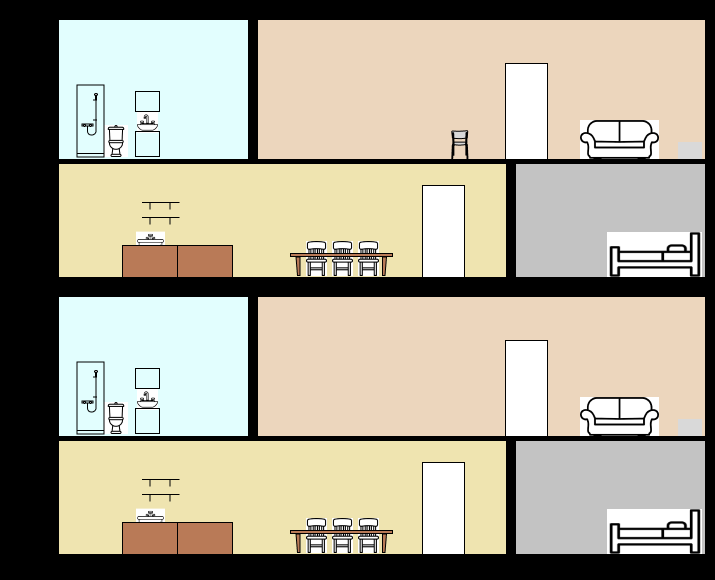
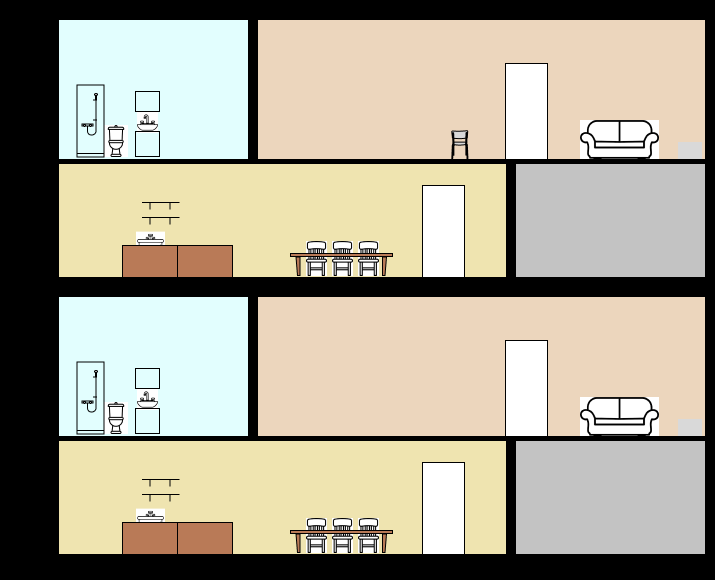
work on car activity

Changed region(s): [[0.8308, 0.3724, 0.9846, 0.4966], [0.8308, 0.869, 0.9846, 0.9621]]

diff --git a/demo/src/scenes/SimulationScene.js b/demo/src/scenes/SimulationScene.js
@@ -34,7 +34,7 @@ export default class SimulationScene extends Phaser.Scene {
         // TIME UNIT CONVERSION FACTOR
         // How many in-game time units correspond to 1 hour "real time"?
         this.tucf = this.dayLength / 24;
-        this.dayStartingHour = 3; // at which hour does the scene start/stop at?
+        this.dayStartingHour = 1; // at which hour does the scene start/stop at?
 
         // Starting time for scene
         this.registry.values.time = this.dayStartingHour*this.tucf;
@@ -228,10 +228,10 @@ export default class SimulationScene extends Phaser.Scene {
         var baseOffset = {"x": 243, "y": 168 };
 
         var offsets = {
-            "1": { "x": baseOffset['x'] + 0, "y": baseOffset['y'] + 0 },
-            "2": { "x": baseOffset['x'] + 147, "y": baseOffset['y'] + -1 },
+            "1": { "x": baseOffset['x'] + 0, "y": baseOffset['y'] },
+            "2": { "x": baseOffset['x'] + 147, "y": baseOffset['y'] },
             "3": { "x": baseOffset['x'] + 0, "y": baseOffset['y'] + 277 },
-            "4": { "x": baseOffset['x'] + 147, "y": baseOffset['y'] + 277-1 }
+            "4": { "x": baseOffset['x'] + 147, "y": baseOffset['y'] + 277 }
         }
         
         return [baseOffset, offsets];
@@ -248,6 +248,7 @@ export default class SimulationScene extends Phaser.Scene {
         
         for (var [key, person] of this.people) {
             if(person.schedule.has(this.registry.values.time.toString())) {
+                console.log(person.schedule);
                 //console.log("person ", person.key, "doing activity:", person.schedule.get(this.registry.values.time.toString()));
                 person.doActivity(person.schedule.get(this.registry.values.time.toString()));
             }
@@ -533,7 +534,23 @@ createDevices() {
     // Create Devices
     const devices = new Map();
 
-    const deviceInfo = {
+    const basePositionsSmall = {
+        "stove": { "x": 502, "y": 480 },
+        "fridge": { "x": 596, "y": 465 },
+        "washingMachine": { "x": 523, "y": 371 },
+        "bed": { "x": 250, "y": 478 },
+        "carCharger": { "x": -7, "y": 770 }
+    }
+
+    const basePositionsBig = {
+        "stove": { "x": 885, "y": 480 },
+        "fridge": { "x": 736, "y": 465 },
+        "washingMachine": { "x": 853, "y": 371 },
+        "bed": { "x": 1280, "y": 478 },
+        "carCharger": { "x": -120, "y": 770 }
+    }
+
+    const apartmentDeviceInfo = {
         "stove": {
             texture: 'stove',
             powerConsumption: 1.0/this.tucf,
@@ -562,25 +579,39 @@ createDevices() {
                 active: 'washingMachineActive'
             },
             repeatAnimation: true
-        }
-    }
-
-    const basePositionsSmall = {
-        "stove": { "x": 502, "y": 480 },
-        "fridge": { "x": 596, "y": 464 },
-        "washingMachine": { "x": 523, "y": 371 }
-    }
-
-    const basePositionsBig = {
-        "stove": { "x": 885, "y": 480 },
-        "fridge": { "x": 736, "y": 465 },
-        "washingMachine": { "x": 853, "y": 371 }
+        },
+        "bed": {
+            texture: 'bed',
+            powerConsumption: 0, 
+            isIdleConsuming: false,
+            animationKeys: {
+                active: 'bedActive'
+            },
+            repeatAnimation: false
+        },
+        "carCharger": {
+            texture: 'washingMachine',
+            powerConsumption: 11.0/this.tucf, 
+            isIdleConsuming: false,
+            animationKeys: {
+                active: 'washingMachineActive'
+            },
+            repeatAnimation: true,
+            disable: [3,4] // The following apartments will not have access to the device
+        },
     }
 
     for (var apartment = 1; apartment <= 4; apartment++) {
         const deviceSuffix = "d" + apartment;
         const basePositions = apartment % 2 == 0 ? basePositionsBig : basePositionsSmall;  
-        for (const [deviceName, DeviceValues] of Object.entries(deviceInfo)) {
+        for (const [deviceName, DeviceValues] of Object.entries(apartmentDeviceInfo)) {
+            if(DeviceValues['disable'] != null && DeviceValues['disable'].includes(apartment)) { //&& DeviceValues['disable'].contains(apartment)
+                //const disableValues = DeviceValues['disable'];
+                //console.log(disableValues);
+                console.log("Disable activity", deviceName, "for apartment", apartment);
+                // console.log(DeviceValues['disable'].has(apartment));
+                break; // skip this apartment
+            }
             const deviceKey = deviceSuffix + deviceName;
             const postitions = {
                 x: basePositions[deviceName]['x'] + this.offsets[apartment]['x'],
@@ -689,7 +720,8 @@ createDevices() {
                 minDuration: 3000,
                 startDuration: 0,
                 exitDuration: 0,
-                deviceType: null 
+                deviceType: "carCharger",
+                disable: [3,4] // The following apartments will not have access to the activity 
             }
         }
 
@@ -728,15 +760,18 @@ createDevices() {
             const baseLocationSuffix = apartment % 2 == 0 ? baseLocationSuffixBig : baseLocationSuffixSmall;  
             for (const [activityName, activityValues] of Object.entries(activityInfo)) {
                 if(activityName in baseLocationSuffix) {
-                    const activityKey = activitySuffix + activityName;
-                    const device = activityValues.deviceType ? this.devices.get("d" + apartment + activityValues.deviceType) : null; 
-                    const locationKey = "l" + apartment + baseLocationSuffix[activityName];
-                    activities.set(activityKey, new Activity({key: activityKey, 
-                                                              scene: this, 
-                                                              apartment: apartment, 
-                                                              device: device, 
-                                                              locationKey: locationKey, 
-                                                              ...activityValues}));    
+                    if(activityInfo['disable'] != null && activityInfo['disable'].includes(apartment)) break;
+                    else { //&& DeviceValues['disable'].contains(apartment)
+                        const activityKey = activitySuffix + activityName;
+                        const device = activityValues.deviceType ? this.devices.get("d" + apartment + activityValues.deviceType) : null; 
+                        const locationKey = "l" + apartment + baseLocationSuffix[activityName];
+                        activities.set(activityKey, new Activity({key: activityKey, 
+                                                                scene: this, 
+                                                                apartment: apartment, 
+                                                                device: device, 
+                                                                locationKey: locationKey, 
+                                                                ...activityValues}));    
+                    }
                 }
             }
         }

diff --git a/demo/src/objects/TotalEnergyHandler.js b/demo/src/objects/TotalEnergyHandler.js
@@ -56,7 +56,7 @@ export class TotalEnergyHandler {
     this.currentTotalSelling = 0;
     this.currentConsumptionPerHouse = [0,0];
     this.currentSolarProductionPerHouse = [0,0];
-    this.currentConsumptionFractions = [0,0,0,0];
+    this.currentConsumptionFractions = [0,0,0,0,0];
 
     this.totalCost = 0;
     this.totalSelling = 0;
@@ -121,11 +121,11 @@ export class TotalEnergyHandler {
         //console.log(powerline); 
         //console.log(this.currentConsumptionFractions); 
         if (powerline.apartment > 0) {
-          totalUsageFactor = this.currentConsumptionFractions[powerline.apartment-1];
+          totalUsageFactor = this.currentConsumptionFractions[powerline.apartment];
         } else if (powerline.house > 0) {
-          totalUsageFactor = this.currentConsumptionFractions[powerline.house-1] + this.currentConsumptionFractions[powerline.house+1]; 
+          totalUsageFactor = this.currentConsumptionFractions[powerline.house] + this.currentConsumptionFractions[powerline.house+2]; 
         } else { // Car charger
-          totalUsageFactor = 0;
+          totalUsageFactor = this.currentConsumptionFractions[0];
         }
         //console.log("total usage factor:", totalUsageFactor);
         if (powerline.type === "mixedSolar") powerline.setAlpha(effectToAlpha(usedSolarEffect * totalUsageFactor));
@@ -134,56 +134,12 @@ export class TotalEnergyHandler {
     });
   }
 
-  // updatePowerlinesAlpha() {
-  //   console.log(this.currentTotalConsumption);
-   
-  //   const estimatedMaxConsumption = 2;
-
-  //   const energyDiff = this.currentTotalConsumption - this.currentTotalSolarProduction;
-  //   const fractionSolar = Math.min(1,this.currentTotalSolarProduction / this.currentTotalConsumption);
-  //   const fractionBought = Math.max(0,energyDiff / this.currentTotalConsumption);
-  //   const fractionSold = Math.max(0,-1*energyDiff / this.currentTotalSolarProduction);
-
-  //   var solarAlpha = this.currentTotalSolarProduction /this.totalSolarPanelEffect;
-  //   //var boughtAlpha = this.currentTotalConsumption*fractionBought / estimatedMaxConsumption;
-  //   var boughtAlpha = 1;
-  //   var soldAlpha = solarAlpha * fractionSold;
-
-
-  //   console.log("energyDiff");
-  //   console.log("fractions:",fractionSolar, fractionBought, fractionSold);
-  //   console.log("alphas:",solarAlpha, boughtAlpha, soldAlpha, mixedSolarAlpha, mixedBoughtAlpha);
-
-
-  //   this.powerlines.forEach(powerline => {
-  //     //console.log(powerline.type);
-
-  //     if (powerline.type === "solar") powerline.setAlpha(solarAlpha);
-  //     else if (powerline.type === "bought") powerline.setAlpha(boughtAlpha);
-  //     else if (powerline.type === "solarSell") powerline.setAlpha(soldAlpha);
-  //     else { // Mixed
-  //       //console.log("hellooo?");
-  //       var totalUsageFactor = 0;
-  //       console.log(powerline); 
-  //       console.log(this.currentConsumptionFractions); 
-  //       if (powerline.apartment > 0) {
-  //         totalUsageFactor = this.currentConsumptionFractions[powerline.apartment-1];
-  //       } else if (powerline.house > 0) {
-  //         totalUsageFactor = this.currentConsumptionFractions[powerline.house-1] + this.currentConsumptionFractions[powerline.house+1]; 
-  //       } else { // Car charger
-  //         totalUsageFactor = 0;
-  //       }
-  //       console.log("total usage factor:", totalUsageFactor);
-  //       if (powerline.type === "mixedSolar") powerline.setAlpha(solarAlpha * totalUsageFactor);
-  //       else if (powerline.type === "mixedBought") powerline.setAlpha(boughtAlpha * totalUsageFactor);
-  //     }
-  //   });
-  // }
 
   updateCurrentConsumption() {
 
     this.currentConsumptionPerHouse = [0,0];
     this.currentTotalConsumption = 0;
+    this.currentConsumptionFractions = [0,0,0,0,0];
 
     // Calculate total consumption in each and all buildings
     for(var [key, ieh] of this.individualEnergyHandlers) {
@@ -194,10 +150,12 @@ export class TotalEnergyHandler {
 
     // Calculate the fraction in which each house is responsible 
     for(var [key, ieh] of this.individualEnergyHandlers) {
-      this.currentConsumptionFractions[ieh.apartment - 1] = ieh.currentConsumption / this.currentTotalConsumption;
+      this.currentConsumptionFractions[ieh.apartment] = ieh.currentApartmentConsumption / this.currentTotalConsumption;
+      this.currentConsumptionFractions[0] += ieh.currentOutsideConsumption / this.currentTotalConsumption;
+
       //console.log("fraction of consumption by apartment", ieh.apartment, ": ", this.currentConsumptionFractions[ieh.apartment - 1]);
     }
-    
+    console.log(this.currentConsumptionFractions);
     //console.log("total current consumption: ", this.currentTotalConsumption);
     this.scene.events.emit('currentConsumptionChanged', this.currentTotalConsumption);
    }

diff --git a/demo/src/objects/Device.js b/demo/src/objects/Device.js
@@ -3,6 +3,7 @@ export class Device extends Phaser.GameObjects.Sprite  {
     body;
 
     key; 
+    type;
     currentScene;
     isActive;
     isIdleConsuming; // if true, uses power regardless of if its "interacted with" or not
@@ -20,12 +21,24 @@ export class Device extends Phaser.GameObjects.Sprite  {
       this.key = params.key;
       this.currentScene = params.scene;
       this.isActive = false;
+      this.type = params.texture;
       this.apartment = params.apartment;
       this.isIdleConsuming = params.isIdleConsuming;
       this.animationKeys = params.animationKeys;
       this.powerConsumption = params.powerConsumption;
       this.repeatAnimation = params.repeatAnimation;
       this.currentScene.add.existing(this);
+      this.deviceSpecificHandling();
+    }
+
+    deviceSpecificHandling() {
+      switch (this.type) {
+        case 'bed':
+          if(this.apartment % 2 == 0) {
+            this.flipX = true;
+          }
+          break;
+      }
     }
 
     handleAnimations() {
@@ -56,6 +69,7 @@ export class Device extends Phaser.GameObjects.Sprite  {
     }
 
     getCurrentConsumption() {
+      console.log("getting consumption from",this.key,":",(this.isActive||this.isIdleConsuming) ? this.powerConsumption : 0);
       return (this.isActive||this.isIdleConsuming) ? this.powerConsumption : 0;
       // Check how long the device has been active, maybe something with system time
     }

diff --git a/demo/src/objects/IndividualEnergyHandler.js b/demo/src/objects/IndividualEnergyHandler.js
@@ -17,8 +17,8 @@ export class IndividualEnergyHandler {
     
     // current values
     currentConsumption;
-    currentSolarPanelGeneration;
-  
+    currentApartmentConsumption;
+    currentOutsideConsumption;  
     // aggregated values
     individualCost;
     individualSelling;
@@ -48,8 +48,15 @@ export class IndividualEnergyHandler {
   
      updateCurrentConsumption() {
       this.currentConsumption = 0;
+      this.currentApartmentConsumption = 0;
+      this.currentOutsideConsumption = 0;  
       for(var [key, device] of this.devices) {
         this.currentConsumption += device.getCurrentConsumption();
+        if (["car"].includes(device.type)) {
+          this.currentOutsideConsumption += device.getCurrentConsumption();  
+        } else {
+          this.currentApartmentConsumption += device.getCurrentConsumption();
+        }
       }
       //console.log("current consumption for apartment ",this.apartment, ": ", this.currentConsumption);
      }

diff --git a/demo/src/objects/scheduleHandler.js b/demo/src/objects/scheduleHandler.js
@@ -107,6 +107,8 @@ export class ScheduleHandler {
         const bedStartTime = 24 * this.tucf + 1;
         schedule.set(bedStartTime.toString(),bedActivity);
 
+        console.log("test:",schedule);
+
         return schedule;
     }
 
@@ -138,8 +140,6 @@ export class ScheduleHandler {
             const activity = activityMap.get(fullActivityKey);
             activities.push([startTime, activity]);
         }
-    
-        console.log(activities);
         return activities;
     }
-   }
+}
